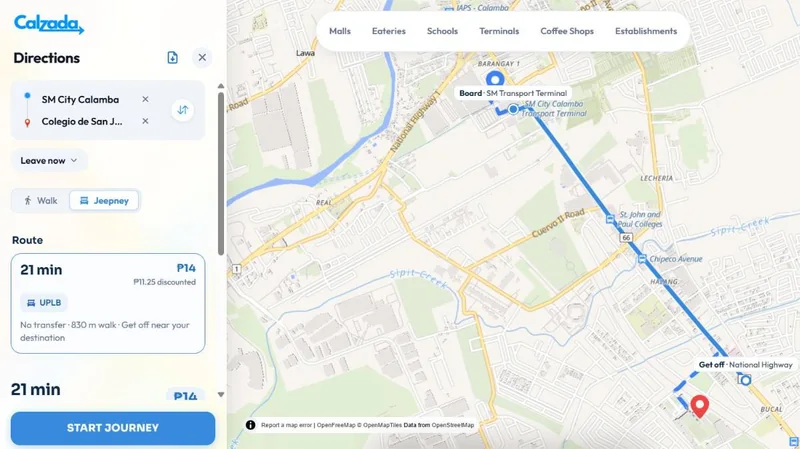
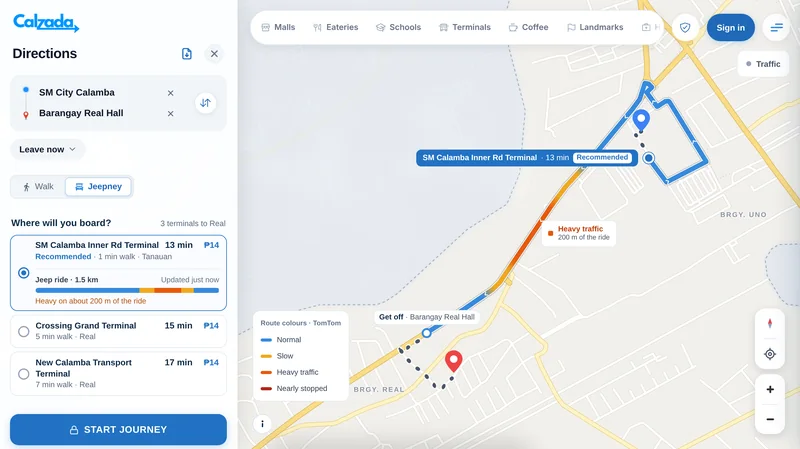
feat(home): new Planner sample, with its own phone screenshot
The homepage Planner card showed a route to Letran Calamba, which is no
longer listed (outside Uno / Real / Halang).

- New sample: SM City Calamba -> Barangay Real Hall. It shows the walk,
  boarding at SM Calamba Inner Rd Terminal, the traffic-coloured jeep line,
  getting off, the walk to the pin, and the 3-terminal picker.
  - Desktop: planner-route-preview.webp (1200) and -800.
  - Phones up to 480 px: planner-route-preview-mobile.webp (780) and
    -mobile-1170, via <picture>. Before, phones saw the right edge of the
    desktop shot.
- The map is a mock basemap: OpenStreetMap roads from walk-graph.json plus
  the app's own scope fog. The traffic is sample data.
- style.css 2.9.6: <picture> fills the card; phone crop centred on the
  route.
- Alt text (EN/TL) describes the new route. i18n.js cache 2.12.1 on all
  pages.

Claude-Session: https://claude.ai/code/session_01CEc7FseEjcnewNrPkwJgms

diff --git a/public/pages/index.html b/public/pages/index.html
@@ -68,7 +68,7 @@
     </noscript>
     <link rel="stylesheet" href="https://cdn.jsdelivr.net/npm/@tabler/icons-webfont@2.47.0/tabler-icons.min.css">
     <!-- Review #19: the 360° viewer (Pannellum) loads only when its section is about to be seen -->
-    <link rel="stylesheet" href="../css/style.css?v=2.9.5">
+    <link rel="stylesheet" href="../css/style.css?v=2.9.6">
     <!-- Search dropdown styles -->
     <style>
         .search-results-dropdown {
@@ -957,12 +957,17 @@
                             <div class="routie-halo" aria-hidden="true"></div>
                             <a href="/planner" class="planner-shot" aria-label="Open Planner"
                                 data-i18n-aria-label="home.features.route.cta_label">
-                                <img src="../assets/planner-route-preview-800.webp"
-                                    srcset="../assets/planner-route-preview-800.webp 800w, ../assets/planner-route-preview.webp 1200w"
-                                    sizes="(max-width: 768px) 92vw, 600px" width="1200" height="674" loading="lazy"
-                                    decoding="async"
-                                    alt="Calzada Planner showing a jeepney route from SM City Calamba to Letran Calamba: board at SM Transport Terminal, get off at the National Highway, 21 minutes, ₱14."
-                                    data-i18n-alt="home.features.route.shot_alt">
+                                <picture>
+                                    <source media="(max-width: 480px)"
+                                        srcset="../assets/planner-route-preview-mobile.webp 780w, ../assets/planner-route-preview-mobile-1170.webp 1170w"
+                                        sizes="calc(100vw - 48px)" width="780" height="820">
+                                    <img src="../assets/planner-route-preview-800.webp"
+                                        srcset="../assets/planner-route-preview-800.webp 800w, ../assets/planner-route-preview.webp 1200w"
+                                        sizes="(max-width: 768px) 92vw, 600px" width="1200" height="674" loading="lazy"
+                                        decoding="async"
+                                        alt="Calzada Planner showing a jeepney route from SM City Calamba to Barangay Real Hall: board at SM Calamba Inner Rd Terminal, 13 minutes, ₱14, with the jeep line coloured by traffic and 3 terminals to choose from."
+                                        data-i18n-alt="home.features.route.shot_alt">
+                                </picture>
                             </a>
                         </div>
                     </div>
@@ -1535,7 +1540,7 @@
 
     <script src="../js/legal-modal.js?v=3.2.0"></script>
     <script src="../js/script.js?v=2.7.0"></script>
-    <script src="../js/i18n.js?v=2.10.1"></script>
+    <script src="../js/i18n.js?v=2.12.1"></script>
     <script src="../js/places-shared.js?v=3.0.3"></script>
 
     <!-- =============================================

diff --git a/public/js/i18n.js b/public/js/i18n.js
@@ -39,7 +39,7 @@ window.translations = {
         'home.features.route.cta':      'Open Planner →',
         'home.features.routie.preview_label': 'Open the Routie chat',
         'home.features.route.cta_label':'Open Planner',
-        'home.features.route.shot_alt': 'Calzada Planner showing a jeepney route from SM City Calamba to Letran Calamba: board at SM Transport Terminal, get off at the National Highway, 21 minutes, ₱14.',
+        'home.features.route.shot_alt': 'Calzada Planner showing a jeepney route from SM City Calamba to Barangay Real Hall: board at SM Calamba Inner Rd Terminal, 13 minutes, ₱14, with the jeep line coloured by traffic and 3 terminals to choose from.',
         'home.features.route.desc':     'Get step-by-step directions to places in Calamba: where to walk, where to board the jeepney and where to get off, with the fare and travel time for each part of the trip.',
         'home.features.save.title':     'Save &amp; Track Your Favorites',
         'home.features.save.desc':      'Save places you want to visit, look back on your trips and visits, and earn badges as you explore Calamba.',
@@ -958,7 +958,7 @@ window.translations = {
         'home.features.route.cta':      'Buksan ang Planner →',
         'home.features.routie.preview_label': 'Buksan ang chat ni Routie',
         'home.features.route.cta_label':'Buksan ang Planner',
-        'home.features.route.shot_alt': 'Ang Calzada Planner na may rutang jeep mula SM City Calamba papuntang Letran Calamba: sasakay sa SM Transport Terminal, bababa sa National Highway, 21 minuto, ₱14.',
+        'home.features.route.shot_alt': 'Ang Calzada Planner na may rutang jeep mula SM City Calamba papuntang Barangay Real Hall: sasakay sa SM Calamba Inner Rd Terminal, 13 minuto, ₱14, may kulay ng trapiko ang linya ng jeep at 3 terminal na mapagpipilian.',
         'home.features.route.desc':     'Kumuha ng step-by-step na direksyon papunta sa mga lugar sa Calamba: saan maglalakad, saan sasakay ng jeep at saan bababa, kasama ang pamasahe at tagal ng biyahe sa bawat bahagi.',
         'home.features.save.title':     'I-save at Balikan ang mga Paborito Mo',
         'home.features.save.desc':      'I-save ang mga lugar na gusto mong puntahan, balikan ang mga biyahe at pagbisita mo, at makakuha ng badges habang nililibot mo ang Calamba.',

diff --git a/public/pages/places.html b/public/pages/places.html
@@ -66,7 +66,7 @@
             href="https://fonts.googleapis.com/css2?family=Inter:wght@400;500;600;700&family=Outfit:wght@400;500;600;700;800;900&family=Sora:wght@400;500;600;700;800&display=swap">
     </noscript>
     <link rel="stylesheet" href="https://cdn.jsdelivr.net/npm/@tabler/icons-webfont@2.47.0/tabler-icons.min.css">
-    <link rel="stylesheet" href="../css/style.css?v=2.9.5">
+    <link rel="stylesheet" href="../css/style.css?v=2.9.6">
     <!-- Ionicons -->
     <script type="module" src="https://unpkg.com/ionicons@7.1.0/dist/ionicons/ionicons.esm.js"></script>
     <!-- MapLibre & Pannellum 360 Street View Styles -->
@@ -1062,7 +1062,7 @@
 
     <script src="../js/legal-modal.js?v=3.2.0"></script>
     <script src="../js/script.js?v=2.7.0"></script>
-    <script src="../js/i18n.js?v=2.10.1"></script>
+    <script src="../js/i18n.js?v=2.12.1"></script>
     <script src="../js/places-shared.js?v=3.0.3"></script>
     <script src="../js/plans-config.js?v=3.0.0"></script>
     <script src="../js/visibility.js?v=3.0.1"></script>

diff --git a/public/css/style.css b/public/css/style.css
@@ -14594,6 +14594,12 @@ button.feature-link-btn {
     transform: translateY(-3px);
 }
 
+.planner-shot picture {
+    display: block;
+    width: 100%;
+    height: 100%;
+}
+
 .planner-shot img {
     display: block;
     width: 100%;
@@ -15008,5 +15014,10 @@ button.feature-link-btn {
     .planner-shot {
         width: calc(100% - 16px);
         height: calc(100% - 16px);
+    }
+
+    /* Phones get the phone screenshot (planner-route-preview-mobile.webp, <picture> in index.html) */
+    .planner-shot img {
+        object-position: 50% 45%;
     }
 }

diff --git a/public/pages/fares.html b/public/pages/fares.html
@@ -628,7 +628,7 @@
     <!-- Scripts -->
     <script src="../js/legal-modal.js?v=3.2.0"></script>
     <script src="../js/script.js?v=2.7.0"></script>
-    <script src="../js/i18n.js?v=2.10.1"></script>
+    <script src="../js/i18n.js?v=2.12.1"></script>
     <script src="../js/transitions.js?v=2.6.3"></script>
     <script type="module" src="../js/firebase-init.js"></script>
     <script type="module" src="../js/user-stats.js?v=2.6.15"></script>

diff --git a/public/pages/planner.html b/public/pages/planner.html
@@ -1378,7 +1378,7 @@
     <script src="../js/planner.js?v=2.19.3"></script>
     <script src="../js/legal-modal.js?v=3.2.0"></script>
     <script src="../js/script.js?v=2.7.0"></script>
-    <script src="../js/i18n.js?v=2.12.0"></script>
+    <script src="../js/i18n.js?v=2.12.1"></script>
 
     <!-- Firebase Auth State & User Profile Dropdown / Stats Integration -->
     <script type="module" src="../js/firebase-init.js"></script>

diff --git a/public/pages/about.html b/public/pages/about.html
@@ -699,7 +699,7 @@
 
     <script src="../js/legal-modal.js?v=3.2.0"></script>
     <script src="../js/script.js?v=2.7.0"></script>
-    <script src="../js/i18n.js?v=2.10.1"></script>
+    <script src="../js/i18n.js?v=2.12.1"></script>
     <script src="../js/transitions.js?v=2.6.3"></script>
     <script type="module" src="../js/firebase-init.js"></script>
     <script type="module" src="../js/user-stats.js?v=2.6.15"></script>

diff --git a/public/pages/faq.html b/public/pages/faq.html
@@ -762,7 +762,7 @@
     </div>
 
     <script src="../js/script.js?v=2.7.0"></script>
-    <script src="../js/i18n.js?v=2.10.1"></script>
+    <script src="../js/i18n.js?v=2.12.1"></script>
     <script src="../js/transitions.js?v=2.6.3"></script>
     <script type="module" src="../js/firebase-init.js"></script>
     <script type="module" src="../js/user-stats.js?v=2.6.15"></script>

diff --git a/public/pages/plans.html b/public/pages/plans.html
@@ -892,7 +892,7 @@
 
     <!-- Scripts -->
     <script src="../js/plans-config.js?v=3.0.0"></script>
-    <script src="../js/i18n.js?v=2.10.1"></script>
+    <script src="../js/i18n.js?v=2.12.1"></script>
     <script src="../js/plans.js?v=2.9.1"></script>
     <script src="../js/script.js?v=2.7.0"></script>
     <script type="module" src="../js/firebase-init.js"></script>

diff --git a/public/pages/my-business.html b/public/pages/my-business.html
@@ -2912,7 +2912,7 @@
     <script src="../js/business-fields.js?v=3.1.2"></script>
     <script src="../js/scope.js?v=2.9.2"></script>
     <script src="https://unpkg.com/maplibre-gl@5.1.0/dist/maplibre-gl.js"></script>
-    <script src="../js/i18n.js?v=2.10.1"></script>
+    <script src="../js/i18n.js?v=2.12.1"></script>
 
     <script type="module">
         import {

diff --git a/public/pages/login.html b/public/pages/login.html
@@ -247,7 +247,7 @@
 
     <script src="../js/legal-modal.js?v=3.2.0"></script>
     <script src="../js/script.js?v=2.7.0"></script>
-    <script src="../js/i18n.js?v=2.10.1"></script>
+    <script src="../js/i18n.js?v=2.12.1"></script>
     <script src="../js/transitions.js?v=2.6.3"></script>
 
     <!-- Firebase Logic Integration -->

diff --git a/public/pages/business.html b/public/pages/business.html
@@ -3023,7 +3023,7 @@
         // Initialize on load
         initPage();
     </script>
-    <script src="../js/i18n.js?v=2.10.1"></script>
+    <script src="../js/i18n.js?v=2.12.1"></script>
     <script>
         (function () {
             const nav = document.getElementById('czBottomNav');
